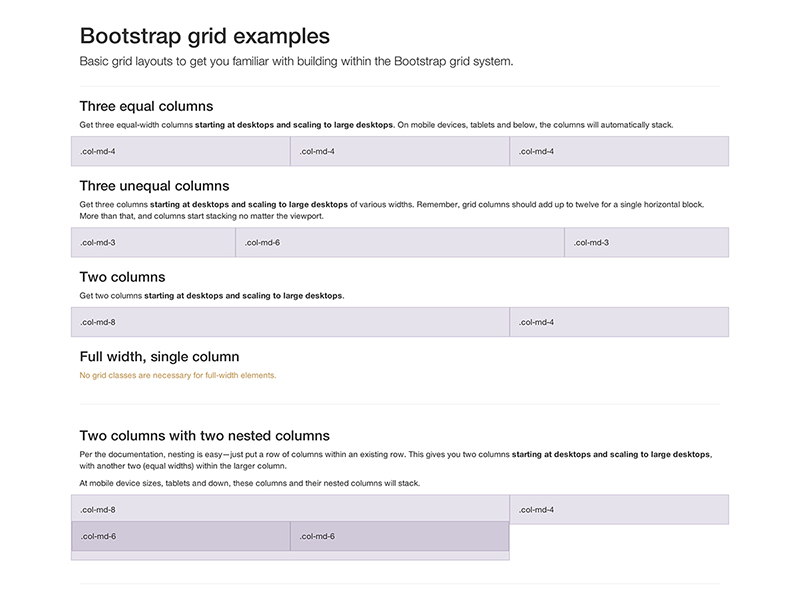
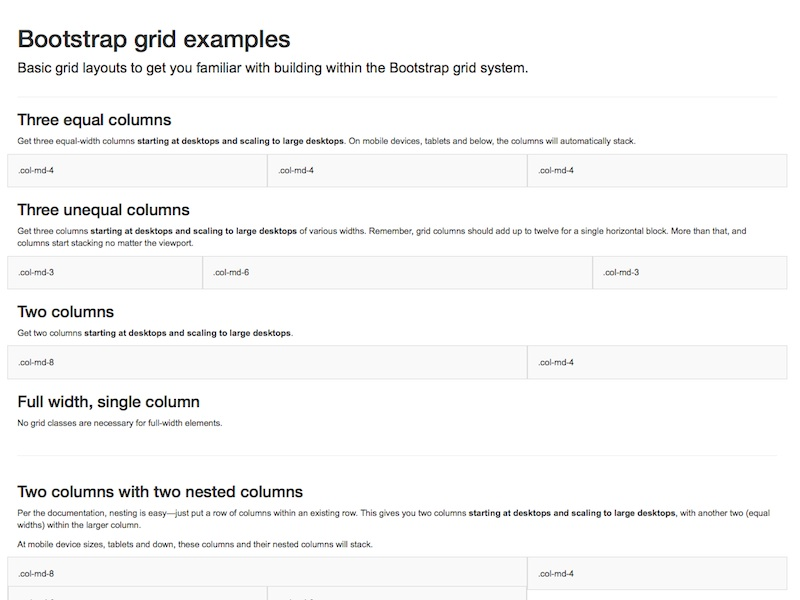
update the grid example to support todc-bootstrap
#117

diff --git a/examples/grid/index.html b/examples/grid/index.html
@@ -13,6 +13,9 @@
     <!-- Bootstrap core CSS -->
     <link href="../../dist/css/bootstrap.css" rel="stylesheet">
 
+    <!-- TODC Bootstrap core CSS -->
+    <link href="../../dist/css/todc-bootstrap.css" rel="stylesheet">
+
     <!-- Custom styles for this template -->
     <link href="grid.css" rel="stylesheet">
 

diff --git a/examples/grid/grid.css b/examples/grid/grid.css
@@ -18,8 +18,8 @@ h4 {
   padding-bottom: 15px;
   background-color: #eee;
   border: 1px solid #ddd;
-  background-color: rgba(86,61,124,.15);
-  border: 1px solid rgba(86,61,124,.2);
+  background-color: #f9f9f9;
+  border: 1px solid #ddd;
 }
 
 hr {
